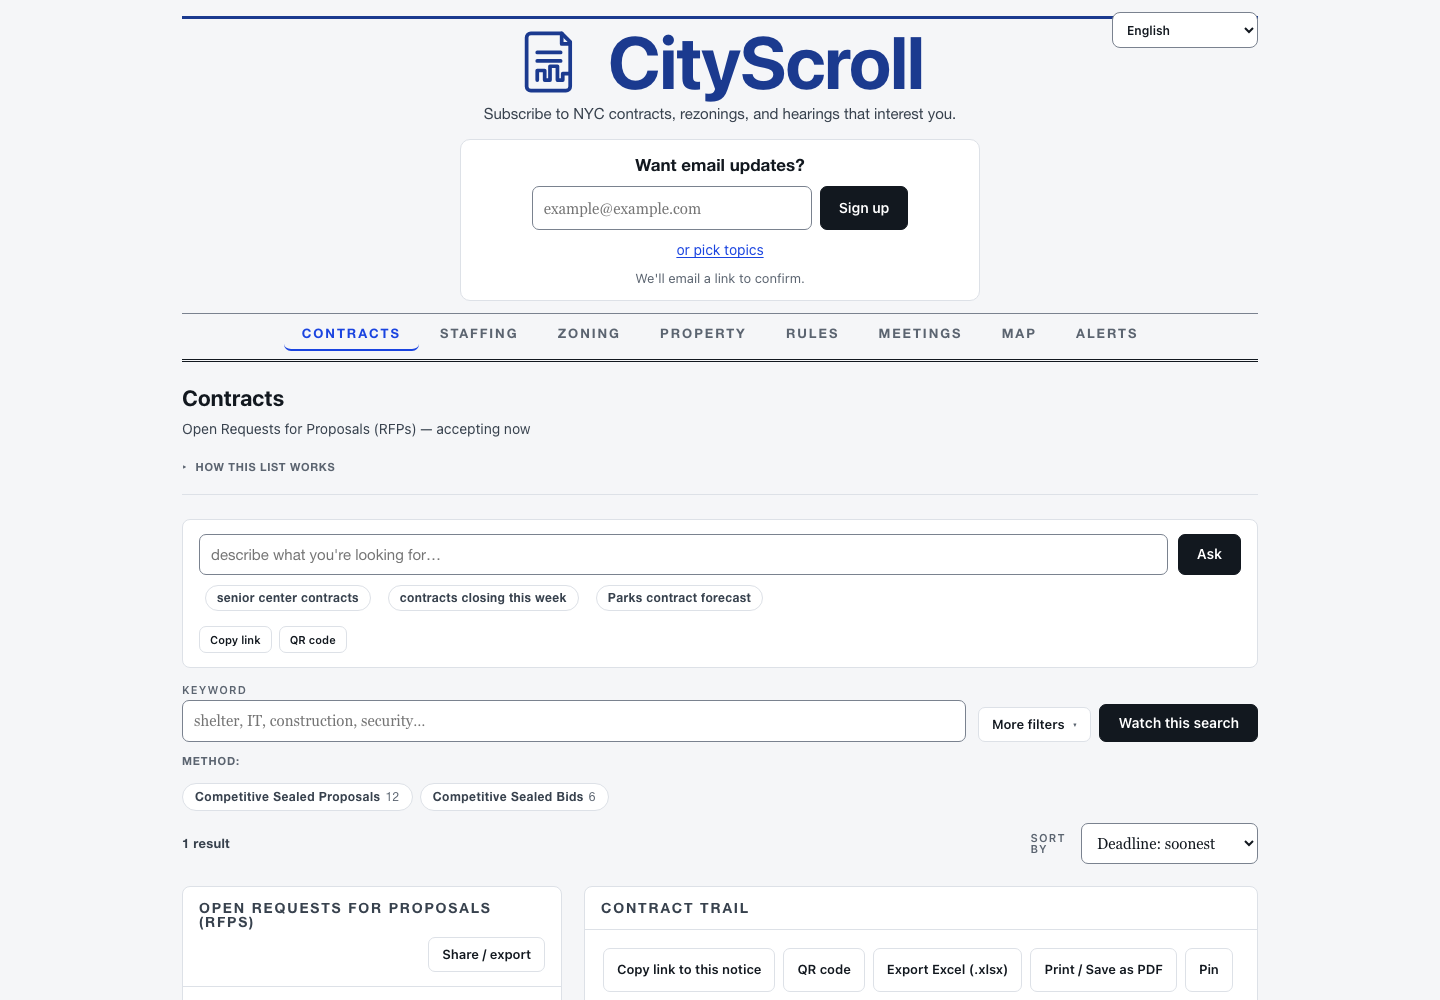
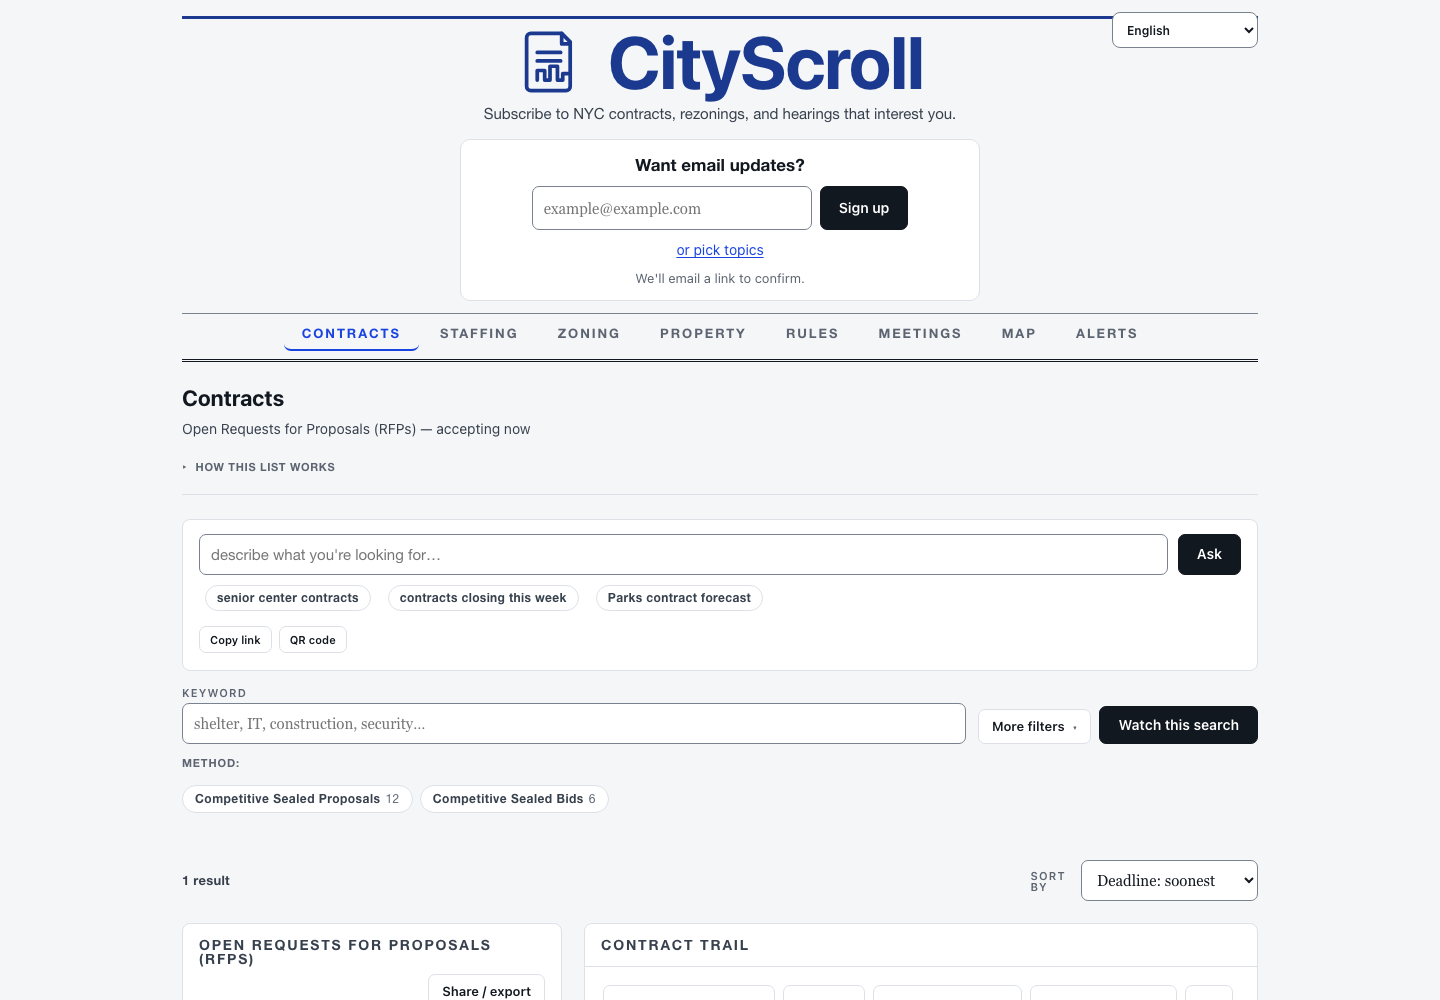
Stabilize the Contracts primary filter rail

diff --git a/site/index.html b/site/index.html
@@ -636,6 +636,8 @@
   .lens-more-content .property-rail-label{margin:var(--space-3) 0 var(--space-2)}
   .lens-more-content .chiprow{margin-top:0}
   .lens-primary-rail{margin-top:var(--space-2)}
+  .money-nlbox{min-height:calc(var(--space-8) * 2 + var(--space-5))}
+  .money-method-slot{min-height:calc(var(--space-8) + var(--space-5) + var(--space-1))}
   .lens-search-state{margin:var(--space-3) 0 0}
   .lens-search-state:empty{display:none}
   .lens-resultbar{display:flex;justify-content:space-between;align-items:center;gap:var(--space-3);flex-wrap:wrap;margin:var(--space-3) 0 var(--space-1)}
@@ -655,7 +657,11 @@
   .property-cluster-list .cl-date{color:var(--muted);margin-inline-start:6px}
   .property-empty-current{grid-column:1/-1;margin:var(--space-2) 0 var(--space-1);padding:var(--space-3) var(--space-4);background:var(--color-canvas-subtle);border:1px solid var(--color-border);border-radius:var(--radius-md);font:14px/1.45 var(--font-interface);color:var(--color-text-soft)}
   #propertyfeed .property-closed-section{grid-column:1/-1}
-  @media(max-width:680px){ .lens-more-content{width:min(94vw,440px)} }
+  @media(max-width:680px){
+    .lens-more-content{width:min(94vw,440px)}
+    .money-nlbox{min-height:0}
+    .money-method-slot{min-height:0}
+  }
   .tax-lien-panel{margin:0 0 20px;padding:18px;background:var(--card);border:1px solid var(--rule);border-inline-start:5px solid var(--oxblood);border-radius:10px;box-shadow:var(--shadow)}
   .tax-lien-panel h2{font:700 21px/1.15 var(--font-display);margin:0 0 7px}
   .tax-lien-deck,.tax-lien-lead,.tax-lien-meta{font:14px/1.5 ui-sans-serif,system-ui,sans-serif;margin:0 0 10px;color:var(--ink-soft)}
@@ -1454,7 +1460,7 @@
         </div>
       </details>
     </div>
-    <div class="nlbox">
+    <div class="nlbox money-nlbox">
       <div class="nlrow">
         <input type="text" id="nlq" aria-label="Describe what you're looking for in plain English" data-i18n-aria="nl_aria" placeholder="describe what you're looking for…" data-i18n-placeholder="nl_placeholder_money">
         <button id="nlgo" data-i18n="ask_btn">Ask</button>
@@ -1507,9 +1513,11 @@
         <button type="button" class="watchbtn" data-lens="money" data-i18n="watch_this_search">Watch this search</button>
       </div>
     </div>
-    <div id="money-method-primary" hidden>
-      <div class="property-rail-label lens-primary-label" data-i18n="method_facet_label">Method:</div>
-      <div class="chiprow lens-primary-rail" id="methodfacet" role="group" aria-label="Procurement method"></div>
+    <div class="money-method-slot">
+      <div id="money-method-primary" hidden>
+        <div class="property-rail-label lens-primary-label" data-i18n="method_facet_label">Method:</div>
+        <div class="chiprow lens-primary-rail" id="methodfacet" role="group" aria-label="Procurement method"></div>
+      </div>
     </div>
     <div class="lens-search-state" id="moneyactivefilters"></div>
     <div class="lens-resultbar">
